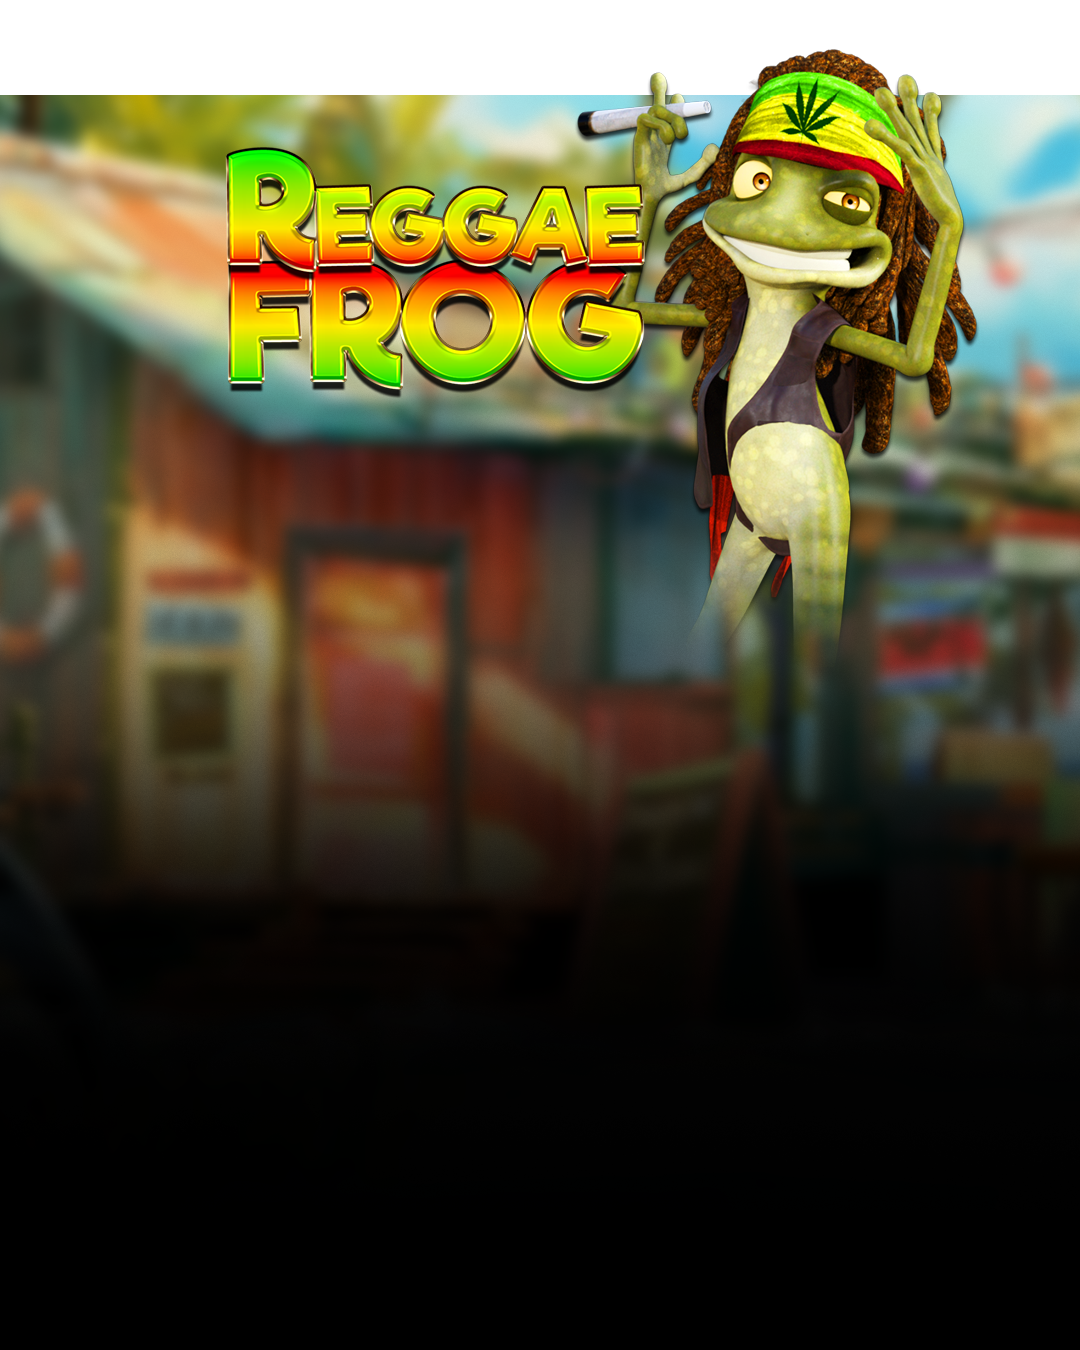
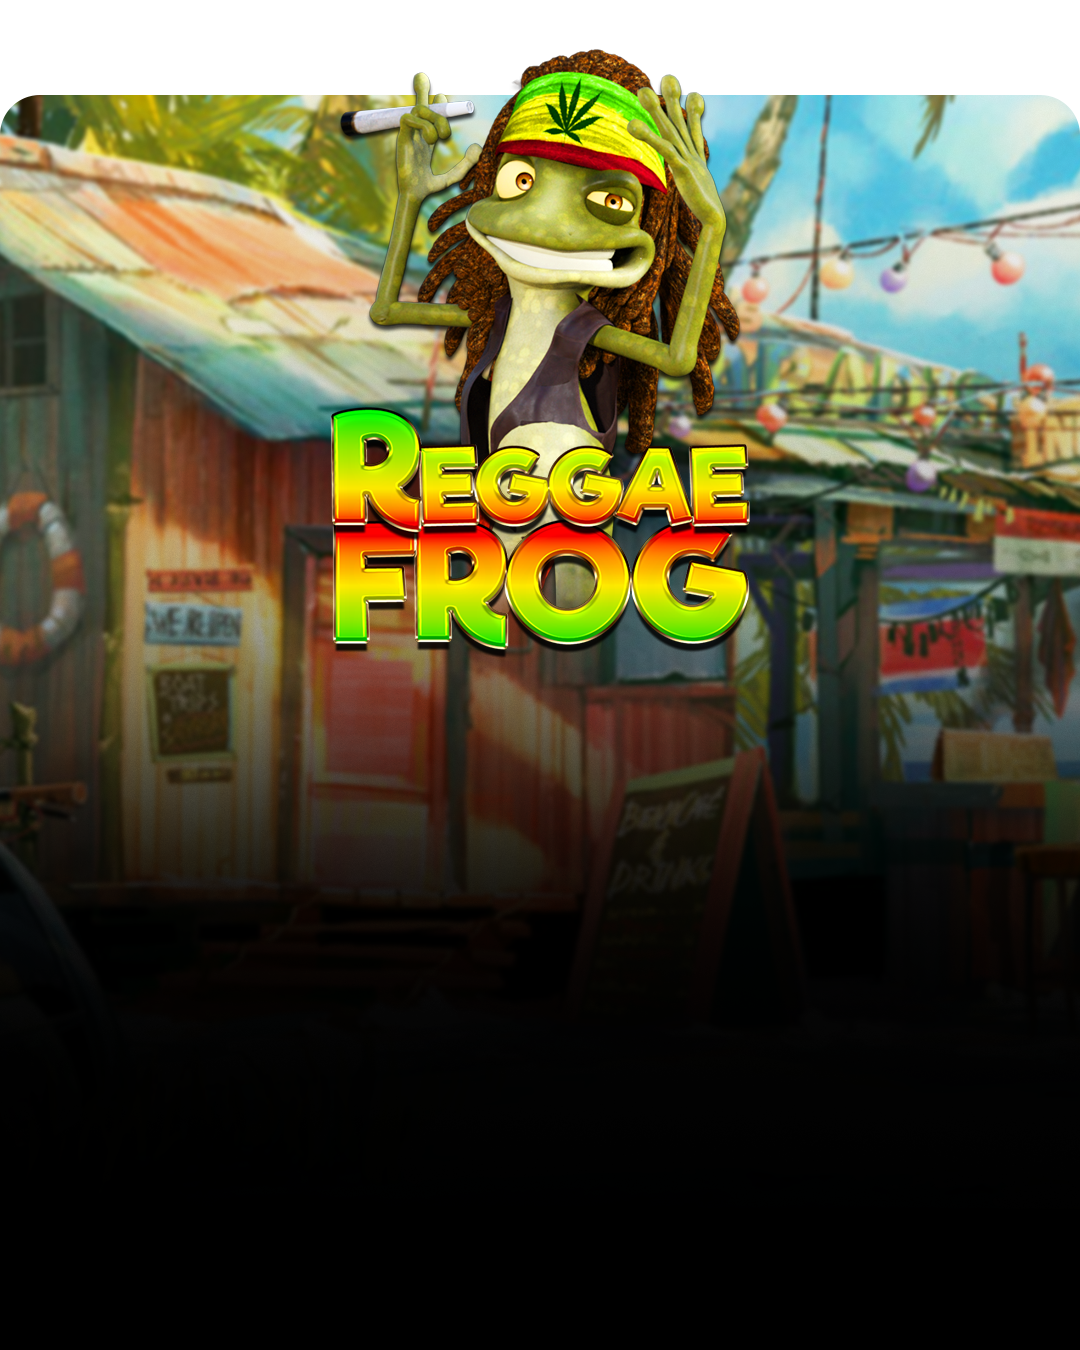
.

diff --git a/components/header.tsx b/components/header.tsx
@@ -180,7 +180,7 @@ export default function Navbar() {
           {/* Language Selector */}
           <DropdownMenu>
             <DropdownMenuTrigger asChild>
-              <Button variant="ghost" className="text-white flex items-center gap-1 px-2 py-1 backdrop-blur-sm rounded-md">
+              <Button variant="ghost" className="text-white flex items-center gap-1 px-2 py-1 backdrop-blur-sm rounded-m  hover:bg-black-5 transition-all duration-300d">
                 <Image
                   src={languages.find(l => l.code === lang)?.flag || eng}
                   alt={languages.find(l => l.code === lang)?.label || 'EN'}
@@ -236,18 +236,18 @@ export default function Navbar() {
           {/* Language Selector for Mobile Header */}
           <DropdownMenu>
             <DropdownMenuTrigger asChild>
-              <Button variant="ghost" className="text-white flex items-center gap-1 px-2 py-1 backdrop-blur-sm rounded-md">
+              <Button variant="ghost" className="text-white flex items-center gap-1 px-2 py-1 backdrop-blur-sm rounded-md mx-4 hover:bg-black-5 transition-all duration-300">
                 <Image
                   src={languages.find(l => l.code === lang)?.flag || eng}
                   alt={languages.find(l => l.code === lang)?.label || 'EN'}
                   width={16}
                   height={16}
-                  className="object-contain"
+                  className="object-contain rounded-sm"
                 />
                 <span className="text-sm font-medium">{languages.find(l => l.code === lang)?.label || 'EN'}</span>
               </Button>
             </DropdownMenuTrigger>
-            <DropdownMenuContent align="end" className="bg-black/90 backdrop-blur-md z-[1003]">
+            <DropdownMenuContent align="end" className="bg-black/90 backdrop-blur-md z-[1003] rounded-sm">
               {languages.map((language) => (
                 <DropdownMenuItem
                   key={language.code}
@@ -262,7 +262,7 @@ export default function Navbar() {
                     alt={language.label}
                     width={20}
                     height={20}
-                    className="object-contain"
+                    className="object-contain rounded-sm"
                   />
                   <span>{language.label}</span>
                 </DropdownMenuItem>
@@ -275,9 +275,9 @@ export default function Navbar() {
             <Button
               variant="ghost"
               size="icon"
-              className="text-white hover:bg-transparent z-[1002]"
+              className="text-white px-2 py-1  rounded-full backdrop-blur-sm hover:bg-transparent z-[1002]"
             >
-              {isSheetOpen ? <X size={24} /> : <Menu size={24} />}
+              {isSheetOpen ? <X size={30} /> : <Menu size={30} />}
             </Button>
           </SheetTrigger>
           <AnimatePresence>

diff --git a/components/home/game-carousel.tsx b/components/home/game-carousel.tsx
@@ -11,7 +11,7 @@ import type { CarouselApi } from "@/components/ui/carousel"
 import mrDiamondImage from "../../public/misterdiamondbg.png"
 import mrDiamondMobileImage from "../../public/mr_diamond_mobile.png"
 import luckyCharmsImage from "../../public/lostruzzobg.png"
-import luckyCharmsMobileImage from "../../public/lostruzzomobile.png"
+import luckyCharmsMobileImage from "../../public/lo_struzzo_mobile.png"
 import pirateTreasureImage from "../../public/reggaefrogbg.png"
 import pirateTreasureMobileImage from "../../public/reggae_frog_mobile.png"
 
@@ -89,9 +89,9 @@ export function GameCarousel() {
     if (!isDesktop) {
         // Versione mobile: card impilate verticalmente
         return (
-            <div className="w-full py-12 mt-12 bg-black">
+            <div className="w-full py-12 mt-12 bg-black px-4">
                 {gameSlides.map((slide) => (
-                    <div key={slide.id} className="rounded-lg overflow-hidden shadow-lg relative -mb-16">
+                    <div key={slide.id} className="rounded-lg overflow-hidden shadow-lg relative">
                         <div className="relative w-full">
                             <Image
                                 src={slide.mobileImageSrc || slide.imageSrc || "/placeholder.svg"}
@@ -99,8 +99,8 @@ export function GameCarousel() {
                                 className="w-full h-auto object-cover"
                             />
                         </div>
-                        <div className="absolute inset-0 bg-gradient-to-r from-black/70 to-transparent">
-                            <div className="h-full flex flex-col justify-end pb-36 items-center text-center max-w-[90%] mx-auto text-white">
+                        <div className={`absolute inset-0 mt-72`}>
+                            <div className={`h-fit flex flex-col justify-end items-center text-center max-w-[90%] mx-auto text-white`}>
                                 <h2 className="text-xl font-bold mb-3">{slide.title}</h2>
                                 <p className="text-sm font-extralight mb-3" style={{fontWeight:"200"}}>{slide.description}</p>
                                 <div className="flex flex-row gap-2">

diff --git a/components/ui/button.tsx b/components/ui/button.tsx
@@ -5,7 +5,7 @@ import { cva, type VariantProps } from "class-variance-authority"
 import { cn } from "@/lib/utils"
 
 const buttonVariants = cva(
-  "inline-flex items-center justify-center gap-2 whitespace-nowrap rounded-md text-sm font-medium ring-offset-background transition-colors focus-visible:outline-none focus-visible:ring-2 focus-visible:ring-ring focus-visible:ring-offset-2 disabled:pointer-events-none disabled:opacity-50 [&_svg]:pointer-events-none [&_svg]:size-4 [&_svg]:shrink-0 hover:bg-black",
+  "inline-flex items-center justify-center gap-2 whitespace-nowrap rounded-md text-sm font-medium ring-offset-background transition-colors focus-visible:outline-none disabled:pointer-events-none disabled:opacity-50 [&_svg]:pointer-events-none [&_svg]:size-4 [&_svg]:shrink-0 hover:bg-black",
   {
     variants: {
       variant: {
